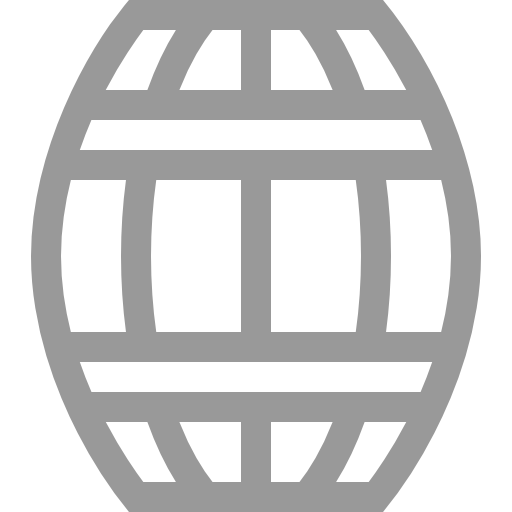
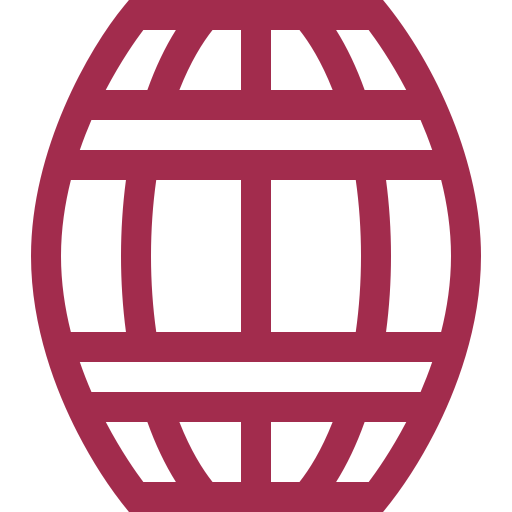
181217

diff --git a/public/main/main.html b/public/main/main.html
@@ -46,17 +46,17 @@
           <li><a href="#">VOSS</a></li>
         </ul>
         <ul>
-            <li><a href="#">Notice</a></li>
-            <li><a href="#">Event</a></li>
-            <li><a href="#">Story in Wine</a></li>
-            <li><a href="#">Press</a></li>
-            <li><a href="#">구매문의</a></li>
-            <li><a href="#">e-Catalog</a></li>
-          </ul>
+          <li><a href="#">Notice</a></li>
+          <li><a href="#">Event</a></li>
+          <li><a href="#">Story in Wine</a></li>
+          <li><a href="#">Press</a></li>
+          <li><a href="#">구매문의</a></li>
+          <li><a href="#">e-Catalog</a></li>
+        </ul>
         <ul>
-            <li><a href="#">All About Wine</a></li>
-            <li><a href="#">Wine FAQ</a></li>
-          </ul>
+          <li><a href="#">All About Wine</a></li>
+          <li><a href="#">Wine FAQ</a></li>
+        </ul>
         <ul>
           <li><a href="#">와인리스트</a></li>
           <li><a href="#">와인추천</a></li>
@@ -81,22 +81,30 @@
     </div>
     <div class="nav">
       <ul>
-        <li><a class="nav clear" data-now="0">
-          <div>products</div>
-          <div></div>
-        </a></li>
-        <li>|</li>
-        <li><a class="nav" data-now="1">
-          2
-        </a></li>
-        <li>|</li>
-        <li><a class="nav" data-now="2">3</a></li>
-        <li>|</li>
-        <li><a class="nav" data-now="3">4</a></li>
-        <li>|</li>
-        <li><a class="nav" data-now="4">5</a></li>
-        <li>|</li>
-        <li><a class="nav" data-now="5">6</a></li>
+        <li class="menu clear" data-now="0">
+            <div class="menu_img1"><img src="../img/wine2.png"></div>
+            <div class="menu_tit">PRODUCTS <div class="line"></div></div>
+        </li>
+        <li class="menu" data-now="1">
+              <div class="menu_img2"><img src="../img/wine-bottle2.png"></div>
+              <div class="menu_tit">WINE TIME <div class="line"></div></div>
+        </li>
+        <li class="menu" data-now="2">
+              <div class="menu_img3"><img src="../img/filter2.png"></div>
+              <div class="menu_tit">FIND STORE <div class="line"></div></div>
+        </li>
+        <li class="menu" data-now="3">
+              <div class="menu_img4"><img src="../img/wine-glasses2.png"></div>
+              <div class="menu_tit">WINE MAP<div class="line"></div></div>
+        </li>
+        <li class="menu" data-now="4">
+              <div class="menu_img5"><img src="../img/bucket2.png"></div>
+              <div class="menu_tit">EVENT WINE<div class="line"></div></div>
+        </li>
+        <li class="menu last" data-now="5">
+              <div class="menu_img6"><img src="../img/wine-barrel2.png"></div>
+              <div class="menu_tit">SNS WINE <div class="line"></div></div>
+        </li>
       </ul>
     </div>
   </section>
@@ -109,25 +117,25 @@
     <div class="dec">
       <div class="title en">WINE TIME</div>
       <div class="box_wrap clear">
-        <div  class="box">
+        <div class="box">
 
         </div>
-      <div class="table">
-        <div class="cell kr">
-          <h4>와인과 함께하는 여유로운 시간이 있는 곳, 와인타임</h4>
-          <p>와인타임(Winetime)은 ‘와인과 함께 하는 여유로운 시간’ 이라는 의미와 시사주간지의 대명사인 Time지와 같은 위상을 
+        <div class="table">
+          <div class="cell kr">
+            <h4>와인과 함께하는 여유로운 시간이 있는 곳, 와인타임</h4>
+            <p>와인타임(Winetime)은 ‘와인과 함께 하는 여유로운 시간’ 이라는 의미와 시사주간지의 대명사인 Time지와 같은 위상을
               가진 와인 샵을 지향한다는 두가지의 의미를 가지고 지난 1997년 첫발을 내디딘 와인 전문샵입니다.
               압구정, 송파점, 종로점, 여의도점, 삼성점, 판교점, 부산점 총 7개의 직영점을 운영하고 있으며, 와인 전문
-               교육을 이수한 직원들이 상주하여 고객님들의 취향에 따른 1:1 맞춤 서비스를 제공해드립니다.
+              교육을 이수한 직원들이 상주하여 고객님들의 취향에 따른 1:1 맞춤 서비스를 제공해드립니다.
               최상의 조건에서 보관되고 있는 세계 각국 500여 종의 와인은 구대륙 그랑크뤼 와인에서부터 신대륙 컬트 와인에
-               이르기까지 다양한 구색을 자랑하며, 특히 나파 밸리를 필두로 한 Joseph Phelps, Heitz Cellars, 
+              이르기까지 다양한 구색을 자랑하며, 특히 나파 밸리를 필두로 한 Joseph Phelps, Heitz Cellars,
               Dominus, Stag’s Leap Wine Cellars, Caymus, Far Niente, Shafer, Chateau Montelena 등
-               최정상급 미국 와인 포트폴리오는 미국 현지 와인 샵을 능가합니다.
-              이 밖에 약 500년의 역사를 가진 독일의 ‘슈피겔라우(Spiegelau)’와인 글라스와 
+              최정상급 미국 와인 포트폴리오는 미국 현지 와인 샵을 능가합니다.
+              이 밖에 약 500년의 역사를 가진 독일의 ‘슈피겔라우(Spiegelau)’와인 글라스와
               명품 워터브랜드 ‘보스(Voss)’등 와인과 관련된 모든 것을 취급하고 있습니다.</p>
+          </div>
         </div>
       </div>
-    </div>
     </div>
   </section>
   <section class="store_wrap page" id="page3">
@@ -141,24 +149,24 @@
       <div class="map_table">
         <div class="map_cell">
           <p>와이너리는 전세계에 걸쳐 분포하지만 좋은 와이너리들은 거의 대부분 북위 30도와 40도에 걸쳐 분포하고 있다. 극지방은 포도를 재배하기에 너무 춥고 <br>
-            적도는 너무 더워서 적당하지 않아 좋은 
-              와인 산지는 한정될 수 밖에 없다. 전세계적으로 30여 개의 와인 생산국이 있다. 프랑스,<br>
-               이탈리아, 스페인, 포르투칼, 독일 비롯한 구대륙과 미국, 칠레, 아르헨티나의 신대륙, 최근에는 중국, 일본 등도 와인을 생산한다.
-              유럽은 한때 오랜 전통을 이어오며<br>
-               발전된 와인 양조방법으로 세계 와인 시장에서 주연의 자리를 놓친 적이 거의 없지만 1970년대에 이르러서 미국을 비롯한 많은 
-              신세계 국가들이 혁신적인 마케팅과 새로운 <br>
-              와인 제조 방법을 앞세워 하나 둘씩 합류하면서 더 많은 스타일의 다양한 와인을 접할 수 있게 되었다. 그러나 중요한 것은 전통이든 혁신이든 와인에 대한 열정과 사랑이다.</p>
+            적도는 너무 더워서 적당하지 않아 좋은
+            와인 산지는 한정될 수 밖에 없다. 전세계적으로 30여 개의 와인 생산국이 있다. 프랑스,<br>
+            이탈리아, 스페인, 포르투칼, 독일 비롯한 구대륙과 미국, 칠레, 아르헨티나의 신대륙, 최근에는 중국, 일본 등도 와인을 생산한다.
+            유럽은 한때 오랜 전통을 이어오며<br>
+            발전된 와인 양조방법으로 세계 와인 시장에서 주연의 자리를 놓친 적이 거의 없지만 1970년대에 이르러서 미국을 비롯한 많은
+            신세계 국가들이 혁신적인 마케팅과 새로운 <br>
+            와인 제조 방법을 앞세워 하나 둘씩 합류하면서 더 많은 스타일의 다양한 와인을 접할 수 있게 되었다. 그러나 중요한 것은 전통이든 혁신이든 와인에 대한 열정과 사랑이다.</p>
         </div>
       </div>
     </div>
   </section>
   <section class="event_wrap page" id="page5">
     <div class="event">
-        <div class="evnet_box">
-      <div class="title en event_tit">EVENT WINE</div>
-          <div class="sale">
-            <p>Top wines on Sale This Month!</p>
-            <p>UP TO 50% OFF</p>
+      <div class="evnet_box">
+        <div class="title en event_tit">EVENT WINE</div>
+        <div class="sale">
+          <p>Top wines on Sale This Month!</p>
+          <p>UP TO 50% OFF</p>
           <div class="sale_cont clear">
             <div class="sale_lt">
               <span>NOM</span>
@@ -169,9 +177,9 @@
             </div>
           </div>
           <div class="sale_btn wh">
-              MORE
-            </div>
+            MORE
           </div>
+        </div>
 
       </div>
     </div>
@@ -192,24 +200,24 @@
               <li><img src="../img/glass-3109246_1920.jpg"></li>
               <li><img src="../img/food-2359699_1920.jpg"></li>
             </ul>
+          </div>
         </div>
-      </div>
         <div class="sns_rt">
-            <div class="clear">
-                <ul class="sns_small2">
-                  <li><img src="../img/still-life-1964461_1920.jpg"></li>
-                  <li><img src="../img/still-life-2905834_1920.jpg"></li>
-                  <li><img src="../img/ceremony-407153_1920.jpg"></li>
-                </ul>
-                <ul class="sns_mid2">
-                  <li><img src="../img/wine-2242526_1920.jpg"></li>
-                  <li><img src="../img/people-2572965_1920.jpg"></li>
-                  <li><img src="../img/cape-lode-2654051_1920.jpg"></li>
-                </ul>
-              </div>
+          <div class="clear">
+            <ul class="sns_small2">
+              <li><img src="../img/still-life-1964461_1920.jpg"></li>
+              <li><img src="../img/still-life-2905834_1920.jpg"></li>
+              <li><img src="../img/ceremony-407153_1920.jpg"></li>
+            </ul>
+            <ul class="sns_mid2">
+              <li><img src="../img/wine-2242526_1920.jpg"></li>
+              <li><img src="../img/people-2572965_1920.jpg"></li>
+              <li><img src="../img/cape-lode-2654051_1920.jpg"></li>
+            </ul>
+          </div>
         </div>
-      
-    </div>
+
+      </div>
   </section>
   <footer class="clear wh">
     <ul class="foot_txt clear">
@@ -219,8 +227,8 @@
       <li><i class="fa fa-twitter"></i></li>
       <li>입사지원 </li>
       <li>기념 와인 및 대량 구매 문의</li>
-      <li><span>Family       </span>  
-        <span>v</span>  </li>
+      <li><span>Family </span>
+        <span>v</span> </li>
     </ul>
     <ul class="foot_txt2 clear">
       <li>개인정보처리방침</li>

diff --git a/public/js/main.js b/public/js/main.js
@@ -107,3 +107,50 @@ clearInterval(interval2);
 	}
 	return WheelScroll;
 }());
+
+var prdNum = 0;
+
+$(".menu").click(function(){ //이벤트 선언
+/* 	$(".news_cont").eq(prdNum).stop().animate({"top":"5%", "opacity":0}, 500 , function(){
+		$(this).css({"display":"none"});
+		
+	}); */
+ prdNum = $(this).index(); //클릭 된 애 값을 받아올꺼야, index는 값을 가져올때 사용
+/*  $(".news_cont").eq(prdNum).css({"display":"block"}).stop().animate({"top":0, "opacity":1}, 500 ); */
+ $(this).css({"color":"#222"});
+ $(".menu_tit").children(".line").css({"width":"0%"});
+$(this).css({"color":"#a22c4d"});
+if($(this).index() !=prdNum){
+	$(this).find(".menu_img1 > img").attr('src', '../img/wine2.png');
+}
+else{
+	$(this).find(".menu_img1 > img").attr('src', '../img/wine.png');
+}
+
+$(".menu_tit").children(".line").css({"width":"100%"});
+});
+
+$(".menu").hover(function(){//이벤트 선언
+	if($(this).index() !=prdNum){ //현재 선택된 애는 제외 시킨다
+		$(this).css({"color":"#a22c4d"});
+		$(".menu_tit").children("div").stop().animate({"width":"100%"}, 100);
+		$(this).find(".menu_img1 > img").attr('src', '../img/wine.png');
+		$(this).find(".menu_img2 > img").attr('src', '../img/wine-bottle.png');
+		$(this).find(".menu_img3 > img").attr('src', '../img/filter.png');
+		$(this).find(".menu_img4 > img").attr('src', '../img/wine-glasses.png');
+		$(this).find(".menu_img5 > img").attr('src', '../img/bucket.png');
+		$(this).find(".menu_img6 > img").attr('src', '../img/wine-barrel.png');
+	}
+},function(){
+	if($(this).index() !=prdNum){
+		$(this).css({"color":"#222"});
+		$(".menu_tit").children("div").stop().animate({"width":"0%"}, 100);
+		$(this).find(".menu_img1 > img").attr('src', '../img/wine2.png');
+		$(this).find(".menu_img2 > img").attr('src', '../img/wine-bottle2.png');
+		$(this).find(".menu_img3 > img").attr('src', '../img/filter2.png');
+		$(this).find(".menu_img4 > img").attr('src', '../img/wine-glasses2.png');
+		$(this).find(".menu_img5 > img").attr('src', '../img/bucket2.png');
+		$(this).find(".menu_img6 > img").attr('src', '../img/wine-barrel2.png');
+	}
+});
+$(".menu").eq(0).trigger("click");

diff --git a/public/css/main.css b/public/css/main.css
@@ -24,9 +24,19 @@ header{width:100%; height:12%; background-color:#edeef2; }
 #slides1 .slide:nth-child(4) {left:300%; top:0;}
 #slides1 .slide:nth-child(5) {left:400%; top:0;}
 
-.nav{position: absolute; width:80%; height:10%; background-color:#fff; bottom:2%; left:10%;}
+.nav{position: absolute; width:80%;  background-color:#fff; bottom:4%; left:10%;}
 
-.nav > ul > li {float:left; width:10%; height:100%;}
+.nav > ul > li {float:left; width:16.6%; height:100%; cursor: pointer; position:relative;}
+.menu > div > img{width:80%; min-width:40px;}
+.menu > div:nth-child(1){float:left; width:40%; padding:5%;}
+.menu > div:nth-child(2){float:left; width:57%; font-size: 1.5rem; margin-top:12%; border-right:1px solid #ccc;}
+.menu .line{ width:100%; height:100%;}
+.last > div:nth-child(2){border-right:none;}
+.menu_tit  .line {width:0%; height:2px; background-color:#a22c4d; position:absolute; bottom:0; left:0;}
+
+
+
+
 
 
 .title {width:30%; margin:0 auto; font-size: 1.7rem; text-align: center; padding-top:2%; font-weight: bold;}
